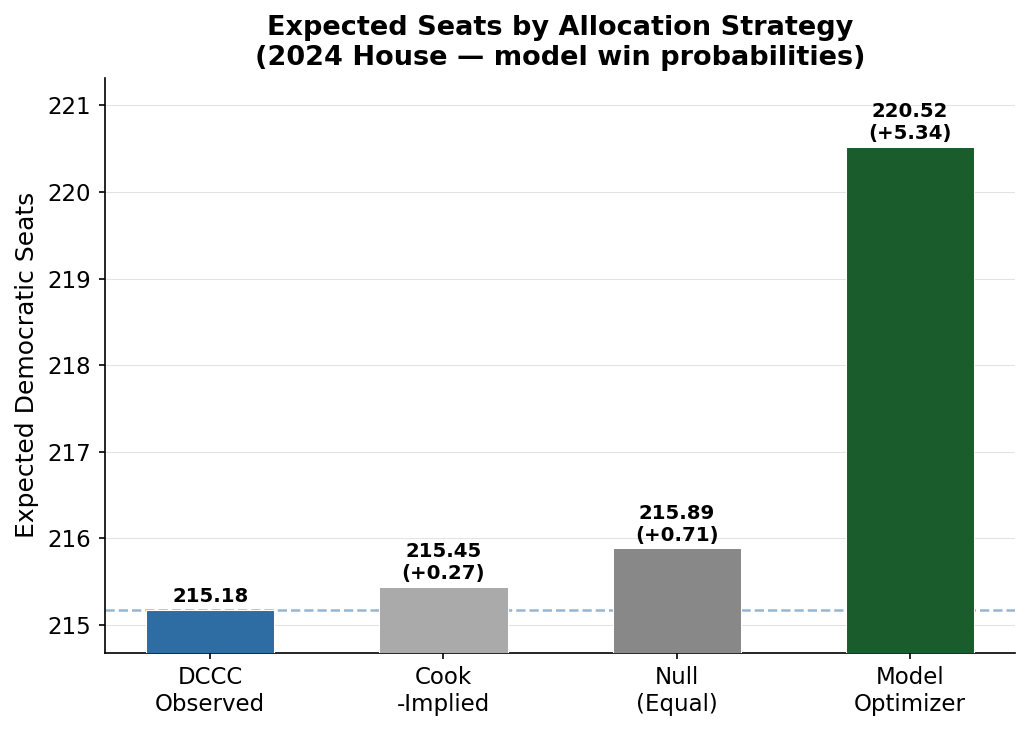
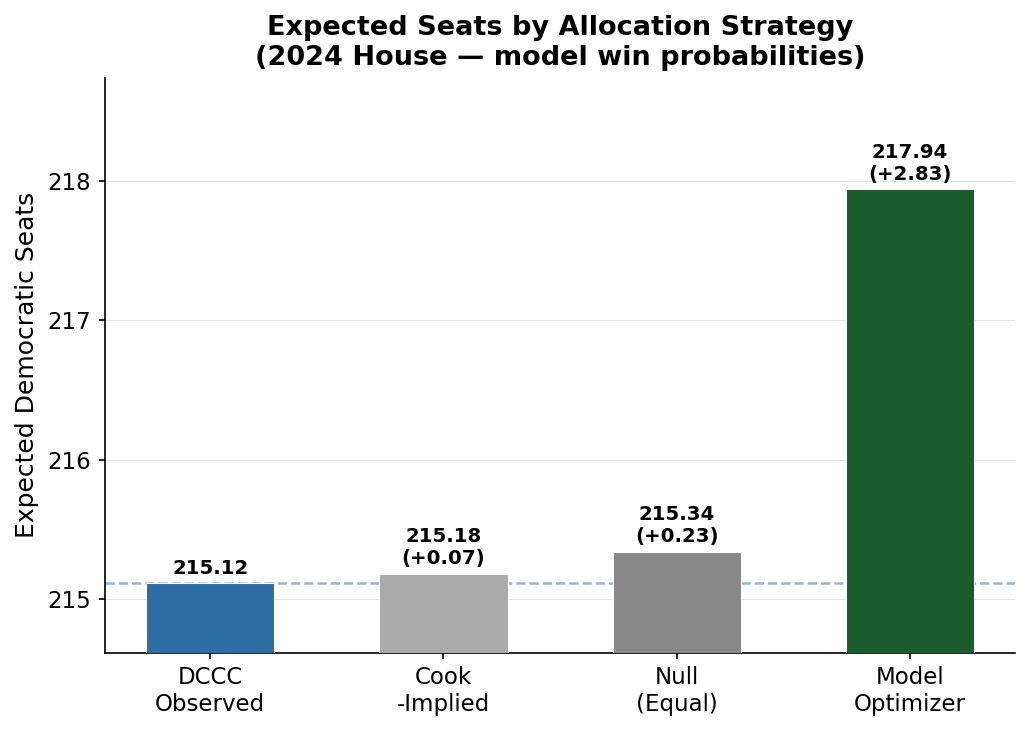
upd

diff --git a/pages/blog/blog-post-5.html b/pages/blog/blog-post-5.html
@@ -96,10 +96,10 @@
         </div>
 
         <p>
-          No single game tells you much, but hundreds of games do.
+          Granted, no single game tells you much, but years of consistent play does.
         </p>
 
-        <h2 class="text-2xl font-bold mt-8">My Own Playstyle</h2>
+        <h2 class="text-2xl font-bold mt-8">My Playstyle</h2>
         <p>
           If I had to summarize my own chess, I'd call myself an asymmetrical positional player.
         </p>
@@ -161,37 +161,6 @@
             <figcaption class="text-sm text-white/50 mt-2">Sicilian</figcaption>
           </figure>
         </div>
-
-        <p>
-          <strong>The English (1. c4):</strong> By controlling the center from the flank rather than
-          occupying it immediately with 1. d4 or 1. e4, you immediately create an asymmetrical pawn
-          structure. The English rarely forces immediate tactical clashes. Instead, it creates highly
-          complex, fluid middlegames where both sides have a massive web of candidate moves. It is the
-          ultimate &ldquo;preserve optionality&rdquo; opening for White.
-        </p>
-        <p>
-          <strong>The Catalan:</strong> This is the epitome of long-term positional pressure. By
-          fianchettoing the light-squared bishop, you are investing in a long-term strategic asset that
-          radiates pressure across the board. The tactics in the Catalan almost always arise organically
-          because Black's position eventually cracks under the geometric pressure of that bishop and
-          White's central control. It perfectly fits your goal of accumulating strategic advantages that
-          naturally bloom into tactical opportunities.
-        </p>
-        <p>
-          <strong>The Sicilian Defense (1&hellip; c5):</strong> Against 1. e4, responding symmetrically
-          with 1&hellip; e5 often allows White to dictate the pace or force simplifications. By playing
-          1&hellip; c5, you immediately unbalance the board. You are telling White, &ldquo;I am willing
-          to give you a space advantage or attacking chances on the kingside in exchange for a central
-          pawn majority and long-term structural leverage.&rdquo; It guarantees a complicated game where
-          both sides have opportunities to blunder.
-        </p>
-        <p>
-          <strong>Indian Defenses (1. d4 Nf6):</strong> Whether you play the Nimzo-Indian, King's Indian,
-          or Gr&uuml;nfeld, the core philosophy is hypermodernism: let White build a big center, then
-          attack it. This requires a high comfort level with complexity and delayed gratification. You
-          are intentionally inviting a complex problem to solve, relying on your ability to navigate the
-          resulting imbalances better than your opponent.
-        </p>
 
         <h2 class="text-2xl font-bold mt-8">Beyond Chess</h2>
         <p>

diff --git a/pages/blog/blog-post-6.html b/pages/blog/blog-post-6.html
@@ -62,8 +62,8 @@
 
         <p>
           Splitting the budget equally across every race outperformed the DCCC's historical allocation.
-          The Cook-based strategy did better still. My nonlinear optimizer performed best of all,
-          projecting roughly five additional House seats over the DCCC's actual allocation, using
+          The Cook-based strategy did slightlybetter still. My nonlinear optimizer performed best of all,
+          projecting roughly 3 additional House seats over the DCCC's actual allocation, using
           the exact same amount of money.
         </p>
 
